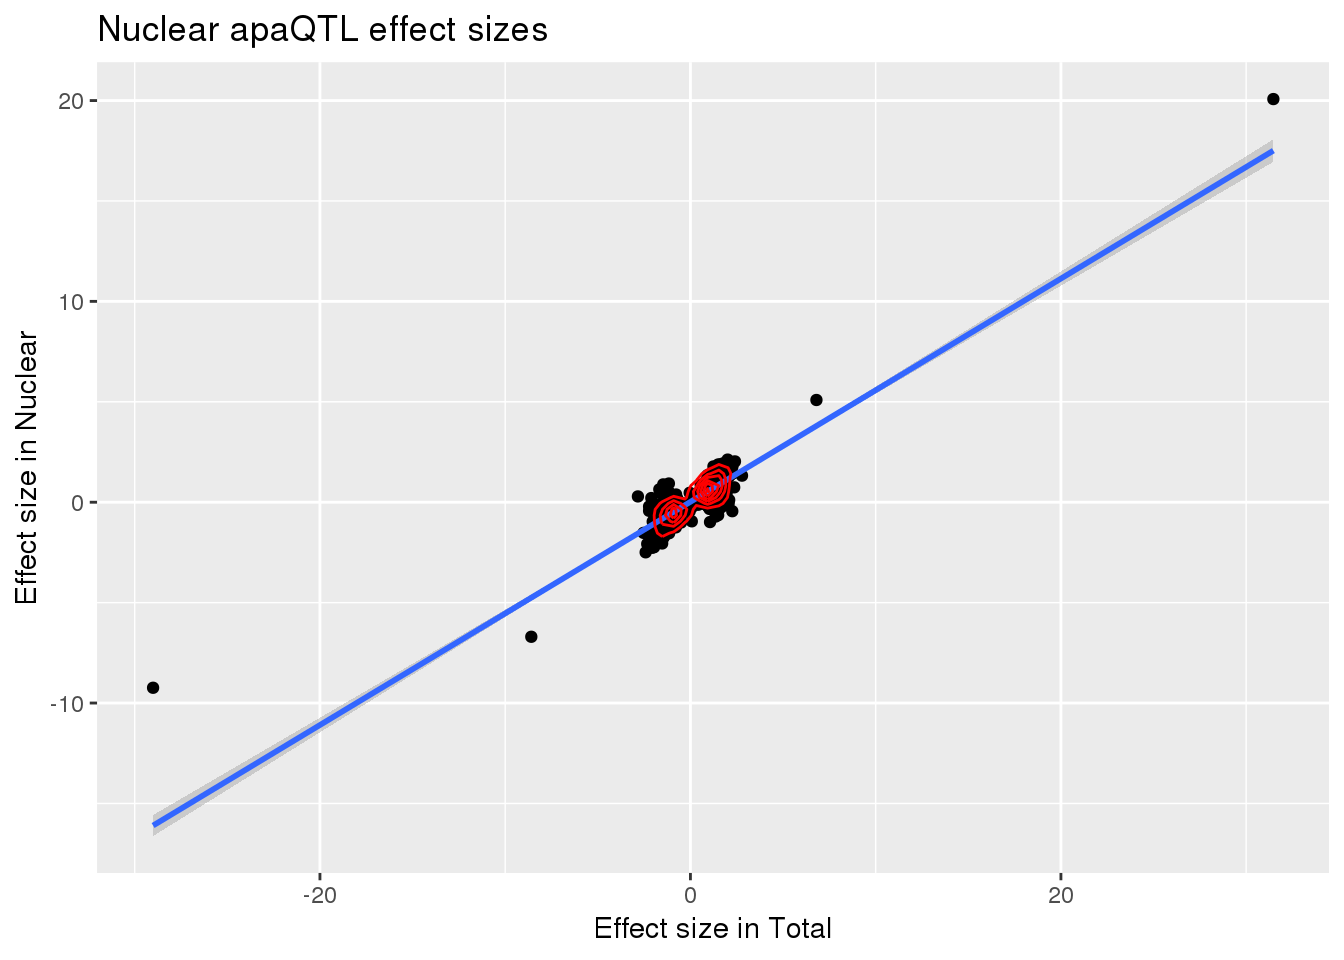
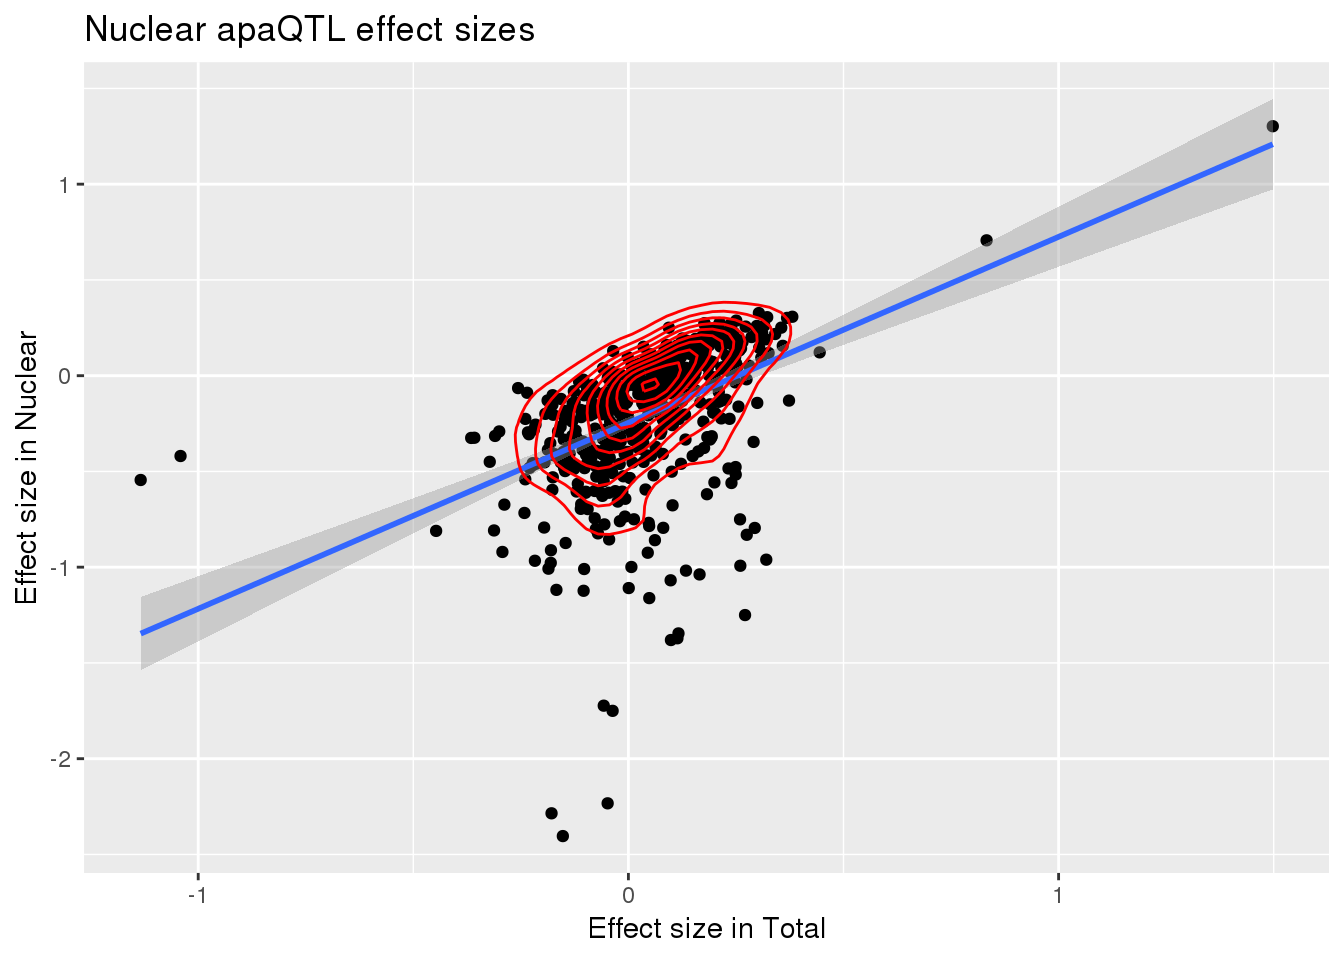
Build site.

diff --git a/docs/apaQTLoverlap.html b/docs/apaQTLoverlap.html
@@ -422,10 +422,10 @@ This reproducible <a href="http://rmarkdown.rstudio.com">R Markdown</a> analysis
 <div class="panel panel-default">
 <div class="panel-heading">
 <p class="panel-title">
-<a data-toggle="collapse" data-parent="#workflowr-checks" href="#strongRepositoryversionstrongahrefhttpsgithubcombrimittlemanapaQTLtree8f883d80c16388df62dd5e0a353736abe5bcb925targetblank8f883d8a"> <span class="glyphicon glyphicon-ok text-success" aria-hidden="true"></span> <strong>Repository version:</strong> <a href="https://github.com/brimittleman/apaQTL/tree/8f883d80c16388df62dd5e0a353736abe5bcb925" target="_blank">8f883d8</a> </a>
+<a data-toggle="collapse" data-parent="#workflowr-checks" href="#strongRepositoryversionstrongahrefhttpsgithubcombrimittlemanapaQTLtree7da06f57e32fe334ab9e79f5cf0e803cd840cedctargetblank7da06f5a"> <span class="glyphicon glyphicon-ok text-success" aria-hidden="true"></span> <strong>Repository version:</strong> <a href="https://github.com/brimittleman/apaQTL/tree/7da06f57e32fe334ab9e79f5cf0e803cd840cedc" target="_blank">7da06f5</a> </a>
 </p>
 </div>
[2 lines of base64/hex data omitted]
 <div class="panel-body">
 <p>
 Great! You are using Git for version control. Tracking code development and connecting the code version to the results is critical for reproducibility. The version displayed above was the version of the Git repository at the time these results were generated. <br><br> Note that you need to be careful to ensure that all relevant files for the analysis have been committed to Git prior to generating the results (you can use <code>wflow_publish</code> or <code>wflow_git_commit</code>). workflowr only checks the R Markdown file, but you know if there are other scripts or data files that it depends on. Below is the status of the Git repository when the results were generated:
@@ -445,6 +445,7 @@ Untracked files:
     Untracked:  analysis/._PASdescriptiveplots.Rmd
     Untracked:  analysis/._cuttoffPercUsage.Rmd
     Untracked:  analysis/cuttoffPercUsage.Rmd
+    Untracked:  analysis/deepToolsPlots.Rmd
     Untracked:  apaQTL.Rproj
     Untracked:  code/._FC_UTR.sh
     Untracked:  code/._FC_newPeaks_olddata.sh
@@ -659,10 +660,12 @@ Unstaged changes:
     Modified:   analysis/nucintronicanalysis.Rmd
     Modified:   analysis/rerunQTL_changePC.Rmd
     Modified:   analysis/rna_netseq_h3k12ac.Rmd
+    Modified:   code/Snakefile
     Deleted:    code/Upstream10Bases_general.py
     Modified:   code/apaQTLCorrectPvalMakeQQ.R
     Modified:   code/apaQTL_permuted.sh
     Modified:   code/bed2saf.py
+    Modified:   code/cluster.json
     Modified:   code/config.yaml
     Deleted:    code/test.txt
 
@@ -703,6 +706,40 @@ Message
 </tr>
 </thead>
 <tbody>
+<tr>
+<td>
+Rmd
+</td>
+<td>
+<a href="https://github.com/brimittleman/apaQTL/blob/7da06f57e32fe334ab9e79f5cf0e803cd840cedc/analysis/apaQTLoverlap.Rmd" target="_blank">7da06f5</a>
+</td>
+<td>
+brimittleman
+</td>
+<td>
+2019-05-20
+</td>
+<td>
+switch log effect
+</td>
+</tr>
+<tr>
+<td>
+html
+</td>
+<td>
+<a href="https://rawcdn.githack.com/brimittleman/apaQTL/a88eedf9feeaeba2af44f429f931361c419ff930/docs/apaQTLoverlap.html" target="_blank">a88eedf</a>
+</td>
+<td>
+brimittleman
+</td>
+<td>
+2019-05-20
+</td>
+<td>
+Build site.
+</td>
+</tr>
 <tr>
 <td>
 Rmd
@@ -767,6 +804,43 @@ text(.8,300, paste(&quot;pi_1=&quot;, round((1-qval_tot$pi0), digit=3), sep=&quo
 hist(nucAPAinTot$pval, xlab=&quot;Total Pvalue&quot;, main=&quot;Significant Nuclear APA QTLs \n Total&quot;)
 text(.8,450, paste(&quot;pi_1=&quot;, round((1-qval_nuc$pi0), digit=3), sep=&quot; &quot;))</code></pre>
 <p><img src="figure/apaQTLoverlap.Rmd/unnamed-chunk-4-1.png" width="672" style="display: block; margin: auto;" /></p>
+<p>
+<button type="button" class="btn btn-default btn-xs btn-workflowr btn-workflowr-fig" data-toggle="collapse" data-target="#fig-unnamed-chunk-4-1">
+Past versions of unnamed-chunk-4-1.png
+</button>
+</p>
+<div id="fig-unnamed-chunk-4-1" class="collapse">
+<div class="table-responsive">
+<table class="table table-condensed table-hover">
+<thead>
+<tr>
+<th>
+Version
+</th>
+<th>
+Author
+</th>
+<th>
+Date
+</th>
+</tr>
+</thead>
+<tbody>
+<tr>
+<td>
+<a href="https://github.com/brimittleman/apaQTL/blob/a88eedf9feeaeba2af44f429f931361c419ff930/docs/figure/apaQTLoverlap.Rmd/unnamed-chunk-4-1.png" target="_blank">a88eedf</a>
+</td>
+<td>
+brimittleman
+</td>
+<td>
+2019-05-20
+</td>
+</tr>
+</tbody>
+</table>
+</div>
+</div>
 </div>
 <div id="effect-size-sharing" class="section level2">
 <h2>Effect size sharing:</h2>
@@ -783,49 +857,167 @@ nucAPAinNuc=read.table(&quot;../data/QTLoverlap/NuclearQTLinNuclearNominal.txt&q
 <p>Join the data frames:</p>
 <p>Total:</p>
 <pre class="r"><code>TotBoth= totAPAinNuc %&gt;% inner_join(totAPAinTot,by=c(&quot;peakID&quot;, &quot;snp&quot;))
-summary(lm(TotBoth$slope ~ TotBoth$Originalslope))</code></pre>
+summary(lm(log10(TotBoth$slope) ~ log10(TotBoth$Originalslope)))</code></pre>
+<pre><code>Warning in eval(predvars, data, env): NaNs produced
+
+Warning in eval(predvars, data, env): NaNs produced</code></pre>
 <pre><code>
 Call:
-lm(formula = TotBoth$slope ~ TotBoth$Originalslope)
+lm(formula = log10(TotBoth$slope) ~ log10(TotBoth$Originalslope))
 
 Residuals:
-    Min      1Q  Median      3Q     Max 
--6.3171 -0.4603 -0.0005  0.5016  2.5768 
+     Min       1Q   Median       3Q      Max 
+-2.24324 -0.05574  0.09258  0.15932  0.35691 
 
 Coefficients:
-                      Estimate Std. Error t value Pr(&gt;|t|)    
-(Intercept)            0.07316    0.02896   2.526   0.0118 *  
-TotBoth$Originalslope  0.47108    0.01482  31.790   &lt;2e-16 ***
+                             Estimate Std. Error t value Pr(&gt;|t|)    
+(Intercept)                  -0.12902    0.02021  -6.385 7.05e-10 ***
+log10(TotBoth$Originalslope)  0.91151    0.11689   7.798 1.24e-13 ***
 ---
 Signif. codes:  0 &#39;***&#39; 0.001 &#39;**&#39; 0.01 &#39;*&#39; 0.05 &#39;.&#39; 0.1 &#39; &#39; 1
 
-Residual standard error: 0.6736 on 543 degrees of freedom
-Multiple R-squared:  0.6505,    Adjusted R-squared:  0.6498 
-F-statistic:  1011 on 1 and 543 DF,  p-value: &lt; 2.2e-16</code></pre>
-<pre class="r"><code>ggplot(TotBoth, aes(x=Originalslope, y=slope))+geom_point() + geom_smooth(method=&quot;lm&quot;) + labs(title=&quot;Total apaQTL effect sizes&quot;, x=&quot;Effect size in Nuclear&quot;,y=&quot;Effect size in Total&quot;) + geom_density_2d(col=&quot;red&quot;)</code></pre>
+Residual standard error: 0.314 on 281 degrees of freedom
+  (262 observations deleted due to missingness)
+Multiple R-squared:  0.1779,    Adjusted R-squared:  0.175 
+F-statistic: 60.81 on 1 and 281 DF,  p-value: 1.237e-13</code></pre>
+<pre class="r"><code>ggplot(TotBoth, aes(x=log10(Originalslope), y=log10(slope)))+geom_point() + geom_smooth(method=&quot;lm&quot;) + labs(title=&quot;Total apaQTL effect sizes&quot;, x=&quot;Effect size in Nuclear&quot;,y=&quot;Effect size in Total&quot;) + geom_density_2d(col=&quot;red&quot;)</code></pre>
+<pre><code>Warning in FUN(X[[i]], ...): NaNs produced
+
+Warning in FUN(X[[i]], ...): NaNs produced
+
+Warning in FUN(X[[i]], ...): NaNs produced
+
+Warning in FUN(X[[i]], ...): NaNs produced
+
+Warning in FUN(X[[i]], ...): NaNs produced
+
+Warning in FUN(X[[i]], ...): NaNs produced
+
+Warning in FUN(X[[i]], ...): NaNs produced
+
+Warning in FUN(X[[i]], ...): NaNs produced</code></pre>
+<pre><code>Warning: Removed 262 rows containing non-finite values (stat_smooth).</code></pre>
+<pre><code>Warning: Removed 262 rows containing non-finite values (stat_density2d).</code></pre>
+<pre><code>Warning: Removed 262 rows containing missing values (geom_point).</code></pre>
 <p><img src="figure/apaQTLoverlap.Rmd/unnamed-chunk-8-1.png" width="672" style="display: block; margin: auto;" /></p>
+<p>
+<button type="button" class="btn btn-default btn-xs btn-workflowr btn-workflowr-fig" data-toggle="collapse" data-target="#fig-unnamed-chunk-8-1">
+Past versions of unnamed-chunk-8-1.png
+</button>
+</p>
+<div id="fig-unnamed-chunk-8-1" class="collapse">
+<div class="table-responsive">
+<table class="table table-condensed table-hover">
+<thead>
+<tr>
+<th>
+Version
+</th>
+<th>
+Author
+</th>
+<th>
+Date
+</th>
+</tr>
+</thead>
+<tbody>
+<tr>
+<td>
+<a href="https://github.com/brimittleman/apaQTL/blob/a88eedf9feeaeba2af44f429f931361c419ff930/docs/figure/apaQTLoverlap.Rmd/unnamed-chunk-8-1.png" target="_blank">a88eedf</a>
+</td>
+<td>
+brimittleman
+</td>
+<td>
+2019-05-20
+</td>
+</tr>
+</tbody>
+</table>
+</div>
+</div>
 <pre class="r"><code>NucBoth= nucAPAinTot %&gt;% inner_join(nucAPAinNuc,by=c(&quot;peakID&quot;, &quot;snp&quot;))
-summary(lm(NucBoth$slope ~ NucBoth$Originalslope))</code></pre>
+summary(lm(log10(NucBoth$slope) ~ log10(NucBoth$Originalslope)))</code></pre>
+<pre><code>Warning in eval(predvars, data, env): NaNs produced
+
+Warning in eval(predvars, data, env): NaNs produced</code></pre>
 <pre><code>
 Call:
-lm(formula = NucBoth$slope ~ NucBoth$Originalslope)
+lm(formula = log10(NucBoth$slope) ~ log10(NucBoth$Originalslope))
 
 Residuals:
-    Min      1Q  Median      3Q     Max 
--1.9473 -0.2833 -0.0066  0.2964  6.8598 
+     Min       1Q   Median       3Q      Max 
+-2.01013 -0.09546  0.09137  0.20730  0.83745 
 
 Coefficients:
-                      Estimate Std. Error t value Pr(&gt;|t|)    
-(Intercept)           0.020900   0.016866   1.239    0.216    
-NucBoth$Originalslope 0.555704   0.009141  60.792   &lt;2e-16 ***
+                             Estimate Std. Error t value Pr(&gt;|t|)    
+(Intercept)                  -0.24598    0.01466  -16.77   &lt;2e-16 ***
+log10(NucBoth$Originalslope)  0.97106    0.08188   11.86   &lt;2e-16 ***
 ---
 Signif. codes:  0 &#39;***&#39; 0.001 &#39;**&#39; 0.01 &#39;*&#39; 0.05 &#39;.&#39; 0.1 &#39; &#39; 1
 
-Residual standard error: 0.5291 on 995 degrees of freedom
-Multiple R-squared:  0.7879,    Adjusted R-squared:  0.7877 
-F-statistic:  3696 on 1 and 995 DF,  p-value: &lt; 2.2e-16</code></pre>
-<pre class="r"><code>ggplot(NucBoth, aes(x=Originalslope, y=slope))+geom_point() + geom_smooth(method=&quot;lm&quot;) + labs(title=&quot;Nuclear apaQTL effect sizes&quot;, x=&quot;Effect size in Total&quot;,y=&quot;Effect size in Nuclear&quot;) + geom_density_2d(col=&quot;red&quot;)</code></pre>
+Residual standard error: 0.3306 on 536 degrees of freedom
+  (459 observations deleted due to missingness)
+Multiple R-squared:  0.2079,    Adjusted R-squared:  0.2064 
+F-statistic: 140.7 on 1 and 536 DF,  p-value: &lt; 2.2e-16</code></pre>
+<pre class="r"><code>ggplot(NucBoth, aes(x=log10(Originalslope), y=log10(slope)))+geom_point() + geom_smooth(method=&quot;lm&quot;) + labs(title=&quot;Nuclear apaQTL effect sizes&quot;, x=&quot;Effect size in Total&quot;,y=&quot;Effect size in Nuclear&quot;) + geom_density_2d(col=&quot;red&quot;)</code></pre>
+<pre><code>Warning in FUN(X[[i]], ...): NaNs produced
+
+Warning in FUN(X[[i]], ...): NaNs produced
+
+Warning in FUN(X[[i]], ...): NaNs produced
+
+Warning in FUN(X[[i]], ...): NaNs produced
+
+Warning in FUN(X[[i]], ...): NaNs produced
+
+Warning in FUN(X[[i]], ...): NaNs produced
+
+Warning in FUN(X[[i]], ...): NaNs produced
+
+Warning in FUN(X[[i]], ...): NaNs produced</code></pre>
+<pre><code>Warning: Removed 459 rows containing non-finite values (stat_smooth).</code></pre>
+<pre><code>Warning: Removed 459 rows containing non-finite values (stat_density2d).</code></pre>
+<pre><code>Warning: Removed 459 rows containing missing values (geom_point).</code></pre>
 <p><img src="figure/apaQTLoverlap.Rmd/unnamed-chunk-10-1.png" width="672" style="display: block; margin: auto;" /></p>
+<p>
+<button type="button" class="btn btn-default btn-xs btn-workflowr btn-workflowr-fig" data-toggle="collapse" data-target="#fig-unnamed-chunk-10-1">
+Past versions of unnamed-chunk-10-1.png
+</button>
+</p>
+<div id="fig-unnamed-chunk-10-1" class="collapse">
+<div class="table-responsive">
+<table class="table table-condensed table-hover">
+<thead>
+<tr>
+<th>
+Version
+</th>
+<th>
+Author
+</th>
+<th>
+Date
+</th>
+</tr>
+</thead>
+<tbody>
+<tr>
+<td>
+<a href="https://github.com/brimittleman/apaQTL/blob/a88eedf9feeaeba2af44f429f931361c419ff930/docs/figure/apaQTLoverlap.Rmd/unnamed-chunk-10-1.png" target="_blank">a88eedf</a>
+</td>
+<td>
+brimittleman
+</td>
+<td>
+2019-05-20
+</td>
+</tr>
+</tbody>
+</table>
+</div>
+</div>
 <br>
 <p>
 <button type="button" class="btn btn-default btn-workflowr btn-workflowr-sessioninfo" data-toggle="collapse" data-target="#workflowr-sessioninfo" style="display: block;">
